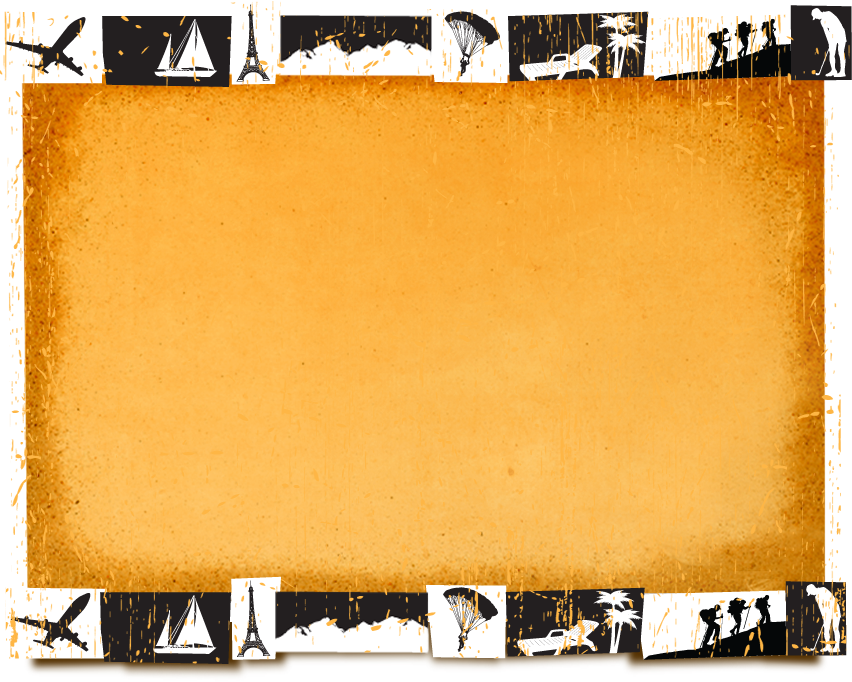
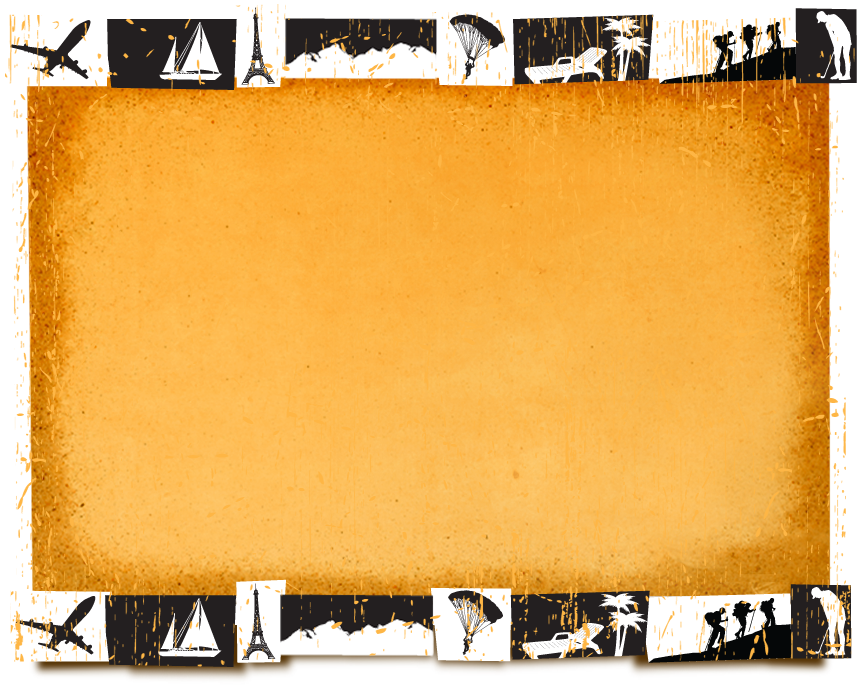
motion

Changed region(s): [[0.0, 0.0, 1.0, 0.9853]]

diff --git a/app/assets/stylesheets/home.css b/app/assets/stylesheets/home.css
@@ -14,7 +14,7 @@
 
 body {
 	background-image: url('/assets/bg.jpg');
-	background-color: #febe57;
+	background-color: #f6c348;
 	background-repeat: repeat-x;
 	}
 
@@ -31,7 +31,7 @@ a {
 
 #frame_left {
 	position:absolute;
-	top: 0; left: -172px;
+	top: 0; left: -166px;
 	width: 180px;
 	height: 779px;
 	background-image: url('/assets/frame_left.png');
@@ -51,7 +51,7 @@ a {
 
 #frame_right {
 	position: absolute;
-	top: 0; right: -179px;
+	top: 0; right: -184px;
 	width: 190px;
 	height: 779px;
 	background-image: url('/assets/frame_right.png');
@@ -322,9 +322,15 @@ p { font-size: 12px; font-weight: bold; margin: 0; }
 	width: 635px;
 	margin: 0 0 25px 0;
 	font-size: 20px;
+	opacity: 0;
 	}
 
-.answer_choice.deselected { opacity: .5; }
+.answer_choice.a { margin-left: 300px; }
+.answer_choice.b { margin-left: 350px; }
+.answer_choice.c { margin-left: 400px; }
+.answer_choice.d { margin-left: 450px; }
+
+.answer_choice.deselected { opacity: .5 !important; }
 
 .answer_choice p {
 	float: left;

diff --git a/app/assets/javascripts/home.js b/app/assets/javascripts/home.js
@@ -4,12 +4,37 @@ function getNext(current){
 	var next = current.next('.block');
 	current.remove();
 	next.fadeIn('slow');
+	if (next.find('.answers').length) {
+		var answers = next.find('.answer_choice');
+
+		answers.animate({
+			opacity: 1,
+			marginLeft: 0
+		}, 2000);
+	};
 }
 
 function updateGrade(score){
 	var container  = $('#grade_section');
 
 	container.find('#grade_amount').html(score + '/12');
+
+	var grades = {
+		'0': 'F',
+		'1': 'D',
+		'2': 'C',
+		'3': 'C',
+		'4': 'C+',
+		'5': 'C+',
+		'6': 'B',
+		'7': 'B',
+		'8': 'B+',
+		'9': 'B+',
+		'10': 'A',
+		'11': 'A+',
+		'12': 'A+'
+	};
+	container.find('#grade_letter').html(grades[score]);
 }
 
 $(document).ready(function() {

diff --git a/app/assets/stylesheets/jquery.selectBox.css b/app/assets/stylesheets/jquery.selectBox.css
@@ -40,7 +40,7 @@
 	z-index: 99999;
 	max-height: 200px;
 	border: solid 1px #BBB; /* should be the same border width as .selectBox-dropdown */
-	background: #FAB42D;
+	background: #f6c348;
 	-moz-box-shadow: 0 2px 6px rgba(0, 0, 0, .2);
 	-webkit-box-shadow: 0 2px 6px rgba(0, 0, 0, .2);
 	box-shadow: 0 2px 6px rgba(0, 0, 0, .2);

diff --git a/app/mailers/submission_mailer.rb b/app/mailers/submission_mailer.rb
@@ -1,6 +1,7 @@
 class SubmissionMailer < ActionMailer::Base
 	default from: 'macuquiz@gmail.com'
 	def confirmation(submission)
+		@submission = submission
 		mail(to: submission.email, subject: 'MACU Prize Confirmation')
 	end
 end
